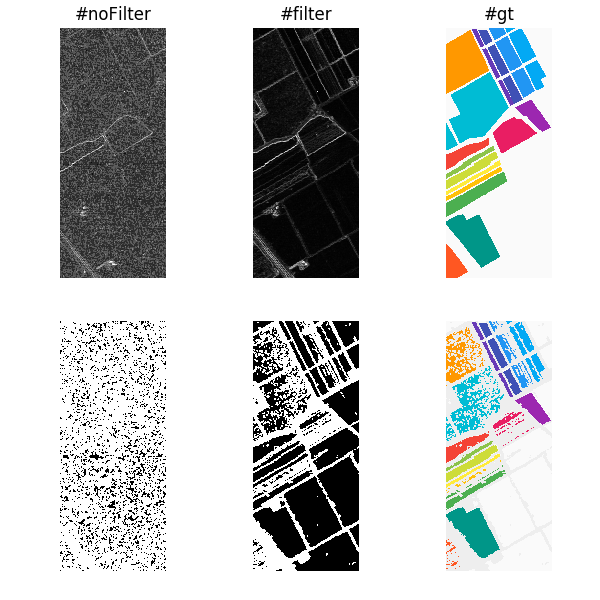
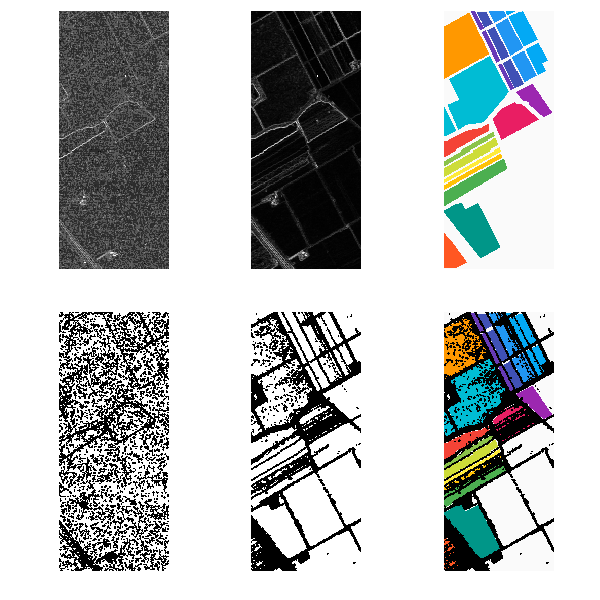
EPF

diff --git a/foo.py b/foo.py
@@ -5,11 +5,13 @@ import matplotlib.pyplot as plt
 import numpy as np
 from scipy import stats
 from matplotlib.colors import LinearSegmentedColormap
+import matplotlib.patches as patches
+import matplotlib.gridspec as gridspec
 
 solarized = LinearSegmentedColormap.from_list(
     'solarized', ['#FFFFFF', '#002b36', '#073642', '#586e75', '#657b83', '#839496', '#93a1a1', '#eee8d5', '#fdf6e3', '#b58900', '#cb4b16', '#dc322f', '#d33682', '#6c71c4', '#268bd2', '#2aa198', '#859900', '#EEEEEE'])
 materialized = LinearSegmentedColormap.from_list(
-    'materialized', ['#fafafa', '#f44336', '#e91e63', '#9c27b0', '#673ab7', '#3f51b5', '#2196f3', '#03a9f4', '#00bcd4', '#009688', '#4caf50', '#8bc34a', '#cddc39', '#ffeb3b', '#ffc107', '#ff9800', '#ff5722', '#eeeeee'])
+    'materialized', ['#fafafa', '#f44336', '#e91e63', '#9c27b0', '#673ab7', '#3f51b5', '#2196f3', '#03a9f4', '#00bcd4', '#009688', '#4caf50', '#8bc34a', '#cddc39', '#ffeb3b', '#ffc107', '#ff9800', '#ff5722', '#000000'])
 
 imagesDirectory = 'data/hsimages/'
 with open('%s%s' % (imagesDirectory, 'salinas.json')) as data_file:
@@ -20,18 +22,20 @@ img = hssa.HS(dictionary)
 print img
 
 k = (2, 2)
-percentile = 75
+percentile = 50
 ap = hssa.AP(img, k, percentile)
 
 noFilter = [True] * img.bands
 
+print 'Filter windows = %i' % np.sum(ap.filter)
+
 # Spłaszczona kostka wypadkowa
-a = ap.edgesFlat(noFilter)
-b = ap.edgesMask(noFilter)
+a = ap.bordersMap(noFilter)
+b = ap.bordersMask(noFilter)
 
 # Odfiltrowana spłaszczona kostka wypadkowa
-c = ap.edgesFlat()
-d = ap.edgesMask()
+c = ap.bordersMap()
+d = ap.bordersMask()
 
 #
 gt = np.copy(img.gt)
@@ -43,65 +47,122 @@ gta[d] = 17
 plt.figure(figsize=(6, 6))
 
 plt.subplot(231); plt.imshow(a, cmap='gray'); plt.axis('off')
-plt.title('#noFilter')
-plt.subplot(234); plt.imshow(b, cmap='gray'); plt.axis('off')
+plt.subplot(234); plt.imshow(b == False, cmap='gray'); plt.axis('off')
 plt.subplot(232); plt.imshow(c, cmap='gray'); plt.axis('off')
-plt.title('#filter')
-plt.subplot(235); plt.imshow(d, cmap='gray'); plt.axis('off')
-plt.subplot(233); plt.imshow(gt, cmap=materialized)
-plt.axis('off')
-plt.title('#gt')
-plt.subplot(236); plt.imshow(gta, cmap=materialized)
-plt.axis('off')
-
+plt.subplot(235); plt.imshow(d == False, cmap='gray'); plt.axis('off')
+plt.subplot(233); plt.imshow(gt, cmap=materialized); plt.axis('off')
+plt.subplot(236); plt.imshow(gta, cmap=materialized); plt.axis('off')
+#plt.tight_layout(pad=-0.0, w_pad=-2.0, h_pad=-4.0)
 plt.tight_layout(pad=0.4, w_pad=0.5, h_pad=1.0)
 plt.savefig('foo.png')
 
 
+
+
+
+
+
+
+
+
+
+
+
 # bar.png
-plt.figure(figsize=(6, 6))
+plt.figure(figsize=(8, 6))
+gs1 = gridspec.GridSpec(3, 1)
+gs1.update(wspace=0, hspace=0) # set the spacing between axes.
 
 # First
-plt.subplot(311)
+ax1 = plt.subplot(gs1[0])
 entropy = ap.entropy
+wherePass = np.squeeze(np.where(ap.meanEntropy))
 whereFail = np.squeeze(np.where(np.logical_not(ap.meanEntropy)))
 
 entropyPass = np.copy(entropy)
 entropyPass[whereFail] = np.nan
 
 plt.plot(xrange(img.bands), entropy,
-    color = '#000000', linestyle = 'dashed', lw = .8)
+    color = '#BABAFE', linestyle = 'dashed', lw = 1)
 plt.plot(xrange(img.bands), entropyPass,
-    color = '#CC2222', lw = 1.5)
-plt.title('Entropy with mean filter')
+    color = '#2222CC', lw = 1)
+#plt.title('entropy with filter')
+
+for item in whereFail:
+    ax1.add_patch(
+        patches.Rectangle(
+            (item-.5, -10),   # (x,y)
+            1,          # width
+            20,          # height
+            color = '#F5F5FE'
+        )
+    )
 
 # Second
-plt.subplot(312)
+ax2 = plt.subplot(gs1[2])
 entropyDynamics = ap.entropyDynamics
 whereFail = np.squeeze(np.where(np.logical_not(ap.meanDynamics)))
+wherePass = np.squeeze(np.where(ap.meanDynamics))
 
 entropyDynamicsPass = np.copy(entropyDynamics)
 entropyDynamicsPass[whereFail] = np.nan
 
 plt.plot(xrange(img.bands), entropyDynamics,
-    color = '#000000', linestyle = 'dashed', lw = .8)
+    color = '#FEBABA', linestyle = 'dashed', lw = 1)
 plt.plot(xrange(img.bands), entropyDynamicsPass,
-    color = '#CC2222', lw = 1.5)
-plt.title('Entropy dynamics with mean filter')
+    color = '#CC2222', lw = 1)
+#plt.title('entropy dynamics with filter')
+for item in whereFail:
+    ax2.add_patch(
+        patches.Rectangle(
+            (item-.5, -10),   # (x,y)
+            1,          # width
+            20,          # height
+            color = '#FEF5F5'
+        )
+    )
 
-# Third
-plt.subplot(313)
+# Forth
+ax3 = plt.subplot(gs1[1])
 whereFail = np.squeeze(np.where(np.logical_not(ap.filter)))
+wherePass = np.squeeze(np.where(ap.filter))
+signatures = img.signatures()
+for item in signatures:
+    signature = signatures[item]
+    signaturePass = np.copy(signature)
+    signaturePass[whereFail] = np.nan
+    plt.plot(
+        xrange(img.bands), signature,
+        color = '#BABABA', linestyle = 'dashed', lw = 1)
+    plt.plot(xrange(img.bands), signaturePass,
+        lw = 1)
+#plt.title('mean signatures with union filter (%i / %i bands (%.2f%%))' % (
+#    np.sum(ap.filter),
+#    img.bands,
+#    100 * np.sum(ap.filter) / float(img.bands)
+#))
 
-entropyPass = np.copy(entropy)
-entropyPass[whereFail] = np.nan
+for item in whereFail:
+    ax3.add_patch(
+        patches.Rectangle(
+            (item- .5, -10),   # (x,y)
+            1,          # width
+            20,          # height
+            color = '#F5F5F5'
+        )
+    )
 
-plt.plot(xrange(img.bands), entropy,
-    color = '#000000', linestyle = 'dashed', lw = .8)
-plt.plot(xrange(img.bands), entropyPass,
-    color = '#CC2222', lw = 1.5)
-plt.title('Entropy with union filter')
 
+ax1.set_yticklabels([])
+ax2.set_yticklabels([])
+#ax3.set_yticklabels([])
 
-plt.tight_layout(pad=0.4, w_pad=0.5, h_pad=1.0)
+ax1.get_xaxis().set_tick_params(direction='in')
+ax1.get_yaxis().set_tick_params(direction='in')
+ax2.get_xaxis().set_tick_params(direction='in')
+ax2.get_yaxis().set_tick_params(direction='in')
+ax3.get_xaxis().set_tick_params(direction='in')
+ax3.get_yaxis().set_tick_params(direction='in')
+
+plt.tight_layout(pad=1)
 plt.savefig('bar.png')

diff --git a/hssa/HS.py b/hssa/HS.py
@@ -151,10 +151,14 @@ class HS:
 
     ## Helper functions
 
+    """
+    ## Entropodynamic Percentyle Filter
+    """
     def dynamicsTensor(self, slice, ksize):
         layers = ksize[0] * ksize[1]
         tensor = np.zeros((self.rows, self.cols, layers))
         i = 0
+
         # Moving Spermatozoid
         for x in xrange(ksize[0]):
             for y in xrange(ksize[1]):
@@ -167,7 +171,6 @@ class HS:
 
         return tensor
 
-
     def edges3d(self, ksize):
         edges3d = np.zeros(np.shape(self.image))
         for sid in xrange(self.bands):
@@ -177,7 +180,7 @@ class HS:
             # Establish tensor
             tensor = self.dynamicsTensor(slice, ksize)
 
-            # Calculate
+            # Calculate denivelation
             edges2d = np.subtract(
                 np.amax(tensor, axis=2),
                 np.amin(tensor, axis=2)
@@ -193,7 +196,7 @@ class HS:
 
         return edges3d
 
-    def edgesFilter(self, edges3d, percentile):
+    def epf(self, edges3d, percentile):
         # Calculate entropy
         entropy = np.percentile(
             np.percentile(
@@ -226,31 +229,21 @@ class HS:
 
         return (entropy, meanEntropy, entropyDynamics, meanDynamics, union)
 
-    def edgesFlatMax(self, edges3d, filter):
-        edgesFlat = np.max(np.squeeze(edges3d[:,:,np.where(filter)]), 2)
-        edgesFlat = scipy.ndimage.median_filter(edgesFlat, size=(2, 2))
+    def bordersMap(self, edges3d, filter):
+        filteredEdges = np.squeeze(edges3d[:,:,np.where(filter)])
+        bordersMap = np.max(filteredEdges, 2)
+        bordersMap = scipy.ndimage.median_filter(
+            bordersMap,
+            size=(2, 2)
+        )
+        return bordersMap
 
-        return edgesFlat
-
-    def edgesFlatMean(self, edges3d, filter):
-        edgesFlatMean = np.mean(np.squeeze(edges3d[:,:,np.where(filter)]), 2)
-        edgesFlatMean = scipy.ndimage.median_filter(edgesFlatMean, size=(2, 2))
-
-        edgesFlatMean = ndimage.grey_dilation(edgesFlatMean, size=(3,3))
-
-        return edgesFlatMean
-
-    def edgesFlat(self, edges3d, filter):
-        return self.edgesFlatMax(edges3d, filter)
-
-    def edgesMask(self, edgesFlat):
+    def bordersMask(self, edgesFlat, percentile = 75):
         edgesMask = np.zeros(np.shape(edgesFlat))
-        lvi = edgesFlat < np.mean(edgesFlat)
-        edgesMask[lvi] = False
-        edgesMask[np.invert(lvi)] = True
+        lvi = edgesFlat > np.percentile(edgesFlat, percentile)
+        edgesMask[lvi] = True
         edgesMask = ndimage.binary_dilation(edgesMask)
-
-        return edgesMask
+        return edgesMask.astype(bool)
 
     """
     ## Loading from .mat file
@@ -287,7 +280,6 @@ class HS:
         )
         print '# Classes\n%s' % self.reverseClasses
         return dataset
-
 
     """
     ## Be verbose, man

diff --git a/hssa/AP.py b/hssa/AP.py
@@ -10,27 +10,23 @@ class AP:
         self.edges3d = img.edges3d(ksize)
 
         # Filtr
-        edgesFilter = img.edgesFilter(self.edges3d, percentile)
+        epf = img.epf(self.edges3d, percentile)
 
-        self.entropy = edgesFilter[0]
-        self.meanEntropy = edgesFilter[1]
-        self.entropyDynamics = edgesFilter[2]
-        self.meanDynamics = edgesFilter[3]
+        self.entropy = epf[0]
+        self.meanEntropy = epf[1]
+        self.entropyDynamics = epf[2]
+        self.meanDynamics = epf[3]
 
-        self.filter = edgesFilter[4]
+        self.filter = epf[4]
 
-    def edgesFlat(self, filter = None):
+    def bordersMap(self, filter = None):
         if not filter:
             filter = self.filter
+        bordersMap = self.img.bordersMap(self.edges3d, filter)
+        return bordersMap
 
-        edgesFlat = self.img.edgesFlat(self.edges3d, filter)
-        return edgesFlat
-
-    def edgesMask(self, filter = None):
+    def bordersMask(self, filter = None, percentile = 75):
         if not filter:
             filter = self.filter
-
-        edgesFlat = self.edgesFlat(filter)
-        edgesMask = self.img.edgesMask(edgesFlat)
-
-        return edgesMask
+        bordersMask = self.img.bordersMask(self.bordersMap(filter), percentile)
+        return bordersMask

diff --git a/setup.py b/setup.py
@@ -10,7 +10,7 @@ with open('LICENSE') as f:
 
 setup(
     name='hssa',
-    version='0.3.3',
+    version='0.4',
     description='Hyperspectral Segmentation Algorithm',
     long_description=readme,
     author='Paweł Ksieniewicz',
